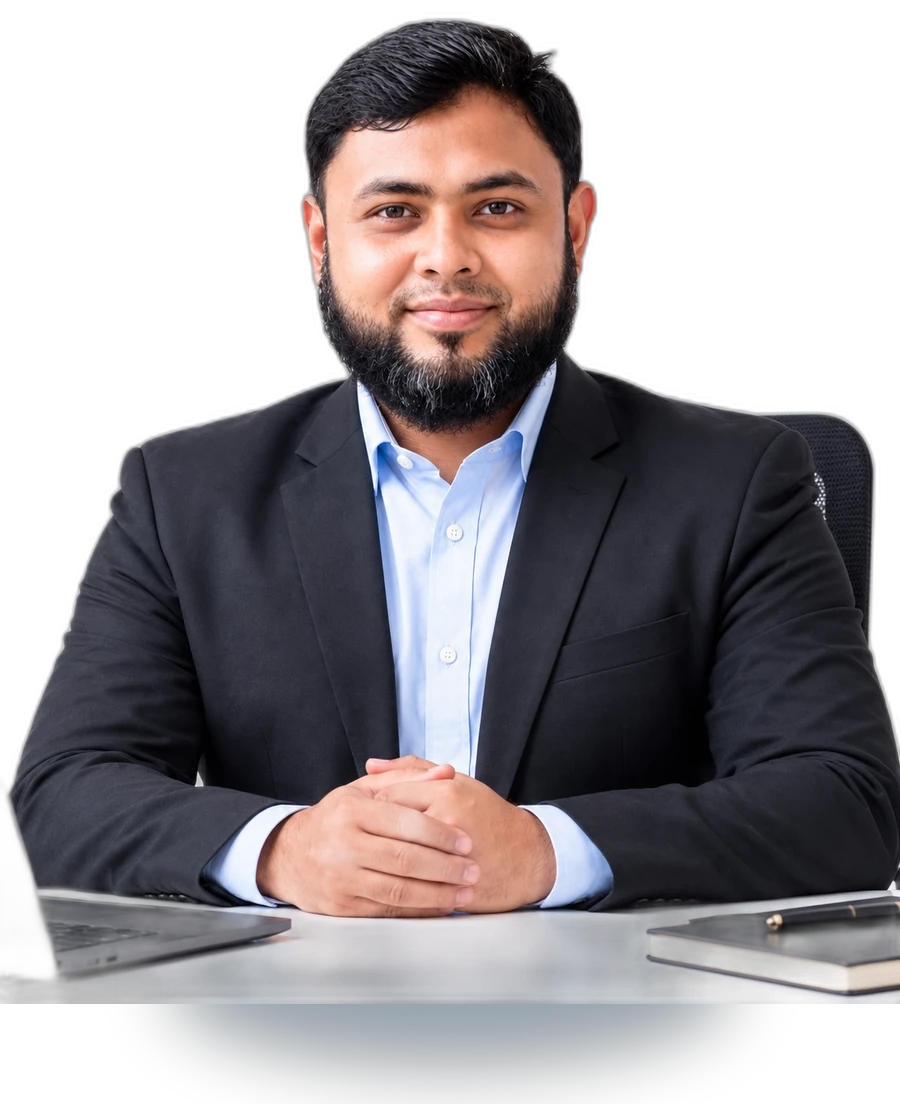
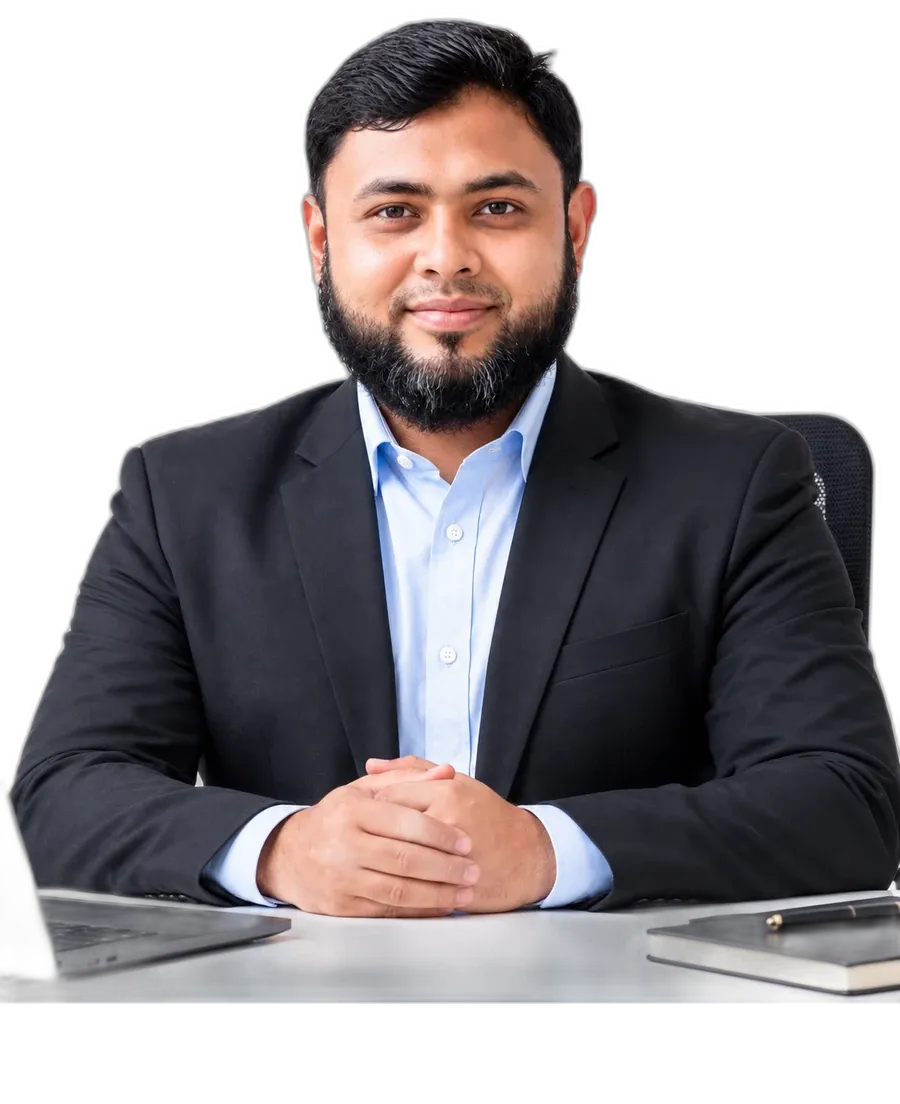
Add files via upload

Changed region(s): [[0.1867, 0.8931, 0.8089, 1.0]]

diff --git a/components/Navbar.tsx b/components/Navbar.tsx
@@ -18,10 +18,10 @@ export default function Navbar() {
   const [isDark, setIsDark] = useState(false);
   const [lang, setLang] = useState<"bn" | "en">("bn");
 
-  // স্ক্রল ডিটেকশন
+  // স্ক্রল ডিটেকশন — স্ক্রল করলে হালকা বটম-বর্ডার/ব্লার যোগ হবে, নাহলে বার সম্পূর্ণ ফ্ল্যাট/স্বচ্ছ
   useEffect(() => {
     const handleScroll = () => {
-      setScrolled(window.scrollY > 15);
+      setScrolled(window.scrollY > 8);
     };
     window.addEventListener("scroll", handleScroll);
     return () => window.removeEventListener("scroll", handleScroll);
@@ -38,11 +38,7 @@ export default function Navbar() {
   // ডার্ক মোড টগল হ্যান্ডলার
   const toggleTheme = () => {
     setIsDark(!isDark);
-    if (!isDark) {
-      document.documentElement.classList.add("dark");
-    } else {
-      document.documentElement.classList.remove("dark");
-    }
+    document.documentElement.classList.toggle("dark", !isDark);
   };
 
   // ভাষা পরিবর্তন হ্যান্ডলার (ডেমো টগল)
@@ -51,31 +47,26 @@ export default function Navbar() {
   };
 
   return (
-    <header className="sticky top-0 z-50 w-full px-3 pt-2 sm:px-6 sm:pt-3">
-      <nav
-        className={`mx-auto flex max-w-6xl items-center justify-between rounded-2xl border px-3.5 py-2.5 transition-all duration-300 sm:px-5 sm:py-3 ${
-          scrolled
-            ? "border-sky-200/80 bg-white/90 shadow-sm backdrop-blur-md"
-            : "border-sky-100/60 bg-white/70 shadow-sm backdrop-blur-sm"
-        }`}
-      >
-        {/* ব্র্যান্ড লোগো ও নাম — ক্লিক করলে স্মুথ স্ক্রলে উপরে যাবে, URL-এ # যোগ হবে না */}
-        <ScrollLink targetId="top" className="flex items-center gap-2.5">
-          <div className="flex h-9 w-9 items-center justify-center rounded-xl bg-gradient-to-tr from-sky-700 to-sky-500 font-bold text-white shadow-sm">
-            AU
-          </div>
-          <div className="flex flex-col">
-            <span className="text-sm font-bold leading-tight text-sky-950 sm:text-base">
-              Ahsan&apos;s Learning Academy
-            </span>
-            <span className="text-[10px] font-medium text-sky-700 leading-none">
-              HSC English &amp; ICT
-            </span>
-          </div>
+    <header
+      className={`sticky top-0 z-50 w-full transition-colors duration-300 ${
+        scrolled
+          ? "border-b border-sky-100 bg-white/95 backdrop-blur-md"
+          : "border-b border-transparent bg-transparent"
+      }`}
+    >
+      <div className="mx-auto flex max-w-6xl items-center justify-between px-4 py-3.5 sm:px-6">
+        {/* বাম পাশে: শুধু একাডেমির নাম ও তার নিচে স্লোগান — কোনো লোগো নেই */}
+        <ScrollLink targetId="top" className="flex flex-col leading-tight">
+          <span className="text-sm font-bold text-sky-950 sm:text-base">
+            Ahsan&apos;s Learning Academy
+          </span>
+          <span className="text-[10px] font-semibold tracking-wide text-sky-700 sm:text-[11px]">
+            Better Learning, Brighter Future
+          </span>
         </ScrollLink>
 
-        {/* ডেক্সটপ মেনু লিংক — স্মুথ স্ক্রল, URL-এ # যোগ হবে না */}
-        <ul className="hidden items-center gap-5 text-sm font-medium text-ink-800 lg:flex">
+        {/* মাঝখানে: ডেক্সটপ মেনু লিংক */}
+        <ul className="hidden items-center gap-6 text-sm font-medium text-ink-800 lg:flex">
           {NAV_LINKS.map((link) => (
             <li key={link.id}>
               <ScrollLink
@@ -88,16 +79,17 @@ export default function Navbar() {
           ))}
         </ul>
 
-        {/* ডানদিকের কন্ট্রোল: থিম, ভাষা ও ভর্তি বাটন */}
-        <div className="flex items-center gap-2">
-          {/* ভাষা পরিবর্তন বাটন */}
+        {/* ডানদিকে: ভাষা/থিম আইকন (ব্যাকগ্রাউন্ড ছাড়া) + একটিমাত্র সলিড ভর্তি বাটন */}
+        <div className="flex items-center gap-3.5 sm:gap-4">
+          {/* ভাষা পরিবর্তন — শুধু আইকন, কোনো বক্স/ব্যাকগ্রাউন্ড নেই */}
           <button
             onClick={toggleLanguage}
+            aria-label="ভাষা পরিবর্তন করুন"
             title="ভাষা পরিবর্তন / Switch Language"
-            className="flex h-8 items-center gap-1 rounded-lg border border-sky-100 bg-sky-50/80 px-2 text-xs font-semibold text-sky-900 transition-colors hover:bg-sky-100"
+            className="flex items-center gap-1 text-sky-700 transition-colors hover:text-sky-900"
           >
             <svg
-              className="h-3.5 w-3.5 text-sky-700"
+              className="h-[18px] w-[18px]"
               fill="none"
               viewBox="0 0 24 24"
               stroke="currentColor"
@@ -105,99 +97,104 @@ export default function Navbar() {
               <path
                 strokeLinecap="round"
                 strokeLinejoin="round"
-                strokeWidth={2}
+                strokeWidth={1.75}
                 d="M3 5h12M9 3v2m1.048 9.5A18.022 18.022 0 016.412 9m6.088 9h7M11 21l5-10 5 10M12.751 5C11.783 10.77 8.07 15.61 3 18.129"
               />
             </svg>
-            <span>{lang === "bn" ? "বাং" : "EN"}</span>
+            <span className="hidden text-xs font-semibold sm:inline">
+              {lang === "bn" ? "বাং" : "EN"}
+            </span>
           </button>
 
-          {/* লাইট / ডার্ক মোড টগল বাটন */}
+          {/* লাইট / ডার্ক মোড টগল — শুধু আইকন, কোনো বক্স/ব্যাকগ্রাউন্ড নেই */}
           <button
             onClick={toggleTheme}
-            aria-label="Toggle theme"
-            className="flex h-8 w-8 items-center justify-center rounded-lg border border-sky-100 bg-sky-50/80 text-sky-800 transition-colors hover:bg-sky-100"
+            aria-label="থিম পরিবর্তন করুন"
+            className="text-sky-700 transition-colors hover:text-sky-900"
           >
             {isDark ? (
-              <svg className="h-4 w-4" fill="none" viewBox="0 0 24 24" stroke="currentColor">
+              <svg className="h-[18px] w-[18px]" fill="none" viewBox="0 0 24 24" stroke="currentColor">
                 <path
                   strokeLinecap="round"
                   strokeLinejoin="round"
-                  strokeWidth={2}
+                  strokeWidth={1.75}
                   d="M12 3v1m0 16v1m9-9h-1M4 12H3m15.364 6.364l-.707-.707M6.343 6.343l-.707-.707m12.728 0l-.707.707M6.343 17.657l-.707.707M16 12a4 4 0 11-8 0 4 4 0 018 0z"
                 />
               </svg>
             ) : (
-              <svg className="h-4 w-4" fill="none" viewBox="0 0 24 24" stroke="currentColor">
+              <svg className="h-[18px] w-[18px]" fill="none" viewBox="0 0 24 24" stroke="currentColor">
                 <path
                   strokeLinecap="round"
                   strokeLinejoin="round"
-                  strokeWidth={2}
+                  strokeWidth={1.75}
                   d="M20.354 15.354A9 9 0 018.646 3.646 9.003 9.003 0 0012 21a9.003 9.003 0 008.354-5.646z"
                 />
               </svg>
             )}
           </button>
 
-          {/* ভর্তি ফরম বাটন (ডেক্সটপ) — ক্রিস্টাল লিকুইড গ্লাস + স্প্রিং ট্যাপ */}
+          {/* ভর্তি ফরম বাটন (ডেক্সটপ/ট্যাব) — একটিমাত্র সলিড কালার বাটন */}
           <ScrollLink
             targetId="admission"
-            className="crystal-btn hidden rounded-xl px-4 py-2 text-xs font-bold sm:inline-flex sm:items-center sm:justify-center"
+            className="crystal-btn-solid hidden rounded-xl px-4 py-2 text-xs font-bold sm:inline-flex sm:items-center sm:justify-center"
           >
             ভর্তি হও
           </ScrollLink>
 
-          {/* মোবাইল আধুনিক স্টাইলিশ ৩-ডট/মেনু বাটন */}
+          {/* মোবাইল হ্যামবার্গার মেনু বাটন — কোনো বক্স/বর্ডার নেই */}
           <button
             aria-label={open ? "মেনু বন্ধ করুন" : "মেনু খুলুন"}
             aria-expanded={open}
             onClick={() => setOpen((v) => !v)}
-            className="flex h-8 w-8 items-center justify-center rounded-lg border border-sky-200/80 bg-white text-sky-950 shadow-sm transition-colors hover:bg-sky-50 lg:hidden"
+            className="flex h-8 w-8 items-center justify-center text-sky-950 lg:hidden"
           >
-            <div className="flex flex-col items-center justify-center gap-1">
-              <span
-                className={`block h-1 w-1 rounded-full bg-sky-950 transition-all duration-300 ${
-                  open ? "scale-125 bg-red-600" : ""
-                }`}
-              />
-              <span
-                className={`block h-1 w-1 rounded-full bg-sky-950 transition-all duration-300 ${
-                  open ? "scale-125 bg-red-600" : ""
-                }`}
-              />
-              <span
-                className={`block h-1 w-1 rounded-full bg-sky-950 transition-all duration-300 ${
-                  open ? "scale-125 bg-red-600" : ""
-                }`}
-              />
-            </div>
+            <svg className="h-5 w-5" fill="none" viewBox="0 0 24 24" stroke="currentColor">
+              {open ? (
+                <path
+                  strokeLinecap="round"
+                  strokeLinejoin="round"
+                  strokeWidth={1.75}
+                  d="M6 18L18 6M6 6l12 12"
+                />
+              ) : (
+                <path
+                  strokeLinecap="round"
+                  strokeLinejoin="round"
+                  strokeWidth={1.75}
+                  d="M4 6h16M4 12h16M4 18h16"
+                />
+              )}
+            </svg>
           </button>
         </div>
-      </nav>
+      </div>
 
-      {/* মোবাইল ড্রয়ার মেনু */}
+      {/* মোবাইল ড্রপডাউন মেনু */}
       <div
-        className={`mt-2 overflow-hidden rounded-2xl border border-sky-100 bg-white/95 shadow-md backdrop-blur-md transition-all duration-300 lg:hidden ${
-          open ? "max-h-96 opacity-100 p-4" : "pointer-events-none max-h-0 opacity-0 p-0"
+        className={`overflow-hidden bg-white/95 backdrop-blur-md transition-all duration-300 lg:hidden ${
+          open
+            ? "max-h-96 border-b border-sky-100 opacity-100"
+            : "pointer-events-none max-h-0 opacity-0"
         }`}
       >
-        <div className="flex flex-col gap-2">
+        <div className="mx-auto flex max-w-6xl flex-col gap-1 px-4 py-3 sm:px-6">
           {NAV_LINKS.map((link) => (
             <ScrollLink
               key={link.id}
               targetId={link.id}
               onNavigate={() => setOpen(false)}
-              className="rounded-xl px-3 py-2 text-sm font-medium text-ink-800 transition-colors hover:bg-sky-50 hover:text-sky-700"
+              className="rounded-lg px-2 py-2.5 text-sm font-medium text-ink-800 transition-colors hover:bg-sky-50 hover:text-sky-700"
             >
               {link.label}
             </ScrollLink>
           ))}
+          {/* শুধু ছোট মোবাইলে (যেখানে টপ বারে বাটনটা দেখা যায় না) ড্রপডাউনেও বাটন দেখানো হচ্ছে */}
           <ScrollLink
             targetId="admission"
             onNavigate={() => setOpen(false)}
-            className="crystal-btn mt-2 flex items-center justify-center rounded-xl px-4 py-2.5 text-center text-sm font-bold"
+            className="crystal-btn-solid mt-1 flex items-center justify-center rounded-xl px-4 py-2.5 text-center text-sm font-bold sm:hidden"
           >
-            ভর্তি ফর্ম পূরণ করো
+            ভর্তি হও
           </ScrollLink>
         </div>
       </div>

diff --git a/components/Hero.tsx b/components/Hero.tsx
@@ -48,7 +48,7 @@ const headlineWipeVariants = {
 export default function Hero() {
   return (
     <section
-      className="relative -mt-[58px] overflow-hidden px-4 pt-[74px] pb-6 sm:-mt-[68px] sm:pt-[90px] md:pb-10"
+      className="relative overflow-hidden px-4 pt-10 pb-6 sm:pt-14 md:pb-10"
       style={{
         background:
           "radial-gradient(ellipse 65% 50% at 5% 30%, rgba(56, 189, 248, 0.35) 0%, transparent 65%), radial-gradient(ellipse 60% 50% at 95% 45%, rgba(14, 165, 233, 0.30) 0%, transparent 65%), linear-gradient(180deg, #e0f2fe 0%, #f0f7fe 55%, #ffffff 100%)",
@@ -64,13 +64,6 @@ export default function Hero() {
           animate="show"
           className="order-2 text-center md:order-1 md:text-left"
         >
-          <motion.p
-            variants={lineVariants}
-            className="font-display text-xs sm:text-sm font-bold tracking-wide text-sky-700"
-          >
-            Better Learning, Brighter Future
-          </motion.p>
-
           <motion.h1
             variants={headlineWipeVariants}
             className="mt-1 text-3xl font-bold leading-tight text-sky-950 sm:text-5xl lg:text-6xl"
@@ -81,7 +74,7 @@ export default function Hero() {
 
           <motion.div variants={lineVariants} className="mt-2.5 space-y-1">
             <p className="text-sm sm:text-base font-bold text-sky-900">
-              Founder &amp; CEO — Ahsan&apos;s Learning Academy
+              প্রতিষ্ঠাতা ও মেন্টর — Ahsan&apos;s Learning Academy
             </p>
             <p className="text-xs sm:text-sm font-semibold text-sky-800">
               প্রভাষক, চৌদ্দগ্রাম সরকারি কলেজ · ৪০তম বিসিএস (সাধারণ শিক্ষা ক্যাডার)
@@ -159,7 +152,7 @@ export default function Hero() {
           <div className="relative w-full max-w-[280px] sm:max-w-[340px] md:max-w-[400px]">
             <Image
               src="/images/ahsan-hero.webp"
-              alt="Md. Ahsan Ullah — Founder & CEO, Ahsan's Learning Academy"
+              alt="Md. Ahsan Ullah — প্রতিষ্ঠাতা ও মেন্টর, Ahsan's Learning Academy"
               width={900}
               height={1350}
               priority

diff --git a/app/globals.css b/app/globals.css
@@ -169,56 +169,17 @@ select:focus-visible {
    নিয়ে sky-blue প্যালেটে বসানো) — প্রাইমারি CTA বাটনগুলোতে ব্যবহার করার জন্য
    ══════════════════════════════════════════════════════════════════════ */
 .crystal-btn {
-  --cb-pos-x: 40%;
-  --cb-pos-y: 140%;
-  --cb-spread-x: 130%;
-  --cb-spread-y: 170%;
-  --cb-color-1: #f0f8ff;
-  --cb-color-2: #e0f2fe;
-  --cb-color-3: #c3defc;
-  --cb-color-4: #44a7fc;
-  --cb-color-5: #c3defc;
-  --cb-stop-1: 37.35%;
-  --cb-stop-2: 61.36%;
-  --cb-stop-3: 78.42%;
-  --cb-stop-4: 93.52%;
-  --cb-stop-5: 100%;
+  background: #ffffff;
   color: #0284c7;
-  background: radial-gradient(
-    var(--cb-spread-x) var(--cb-spread-y) at var(--cb-pos-x) var(--cb-pos-y),
-    var(--cb-color-1) var(--cb-stop-1),
-    var(--cb-color-2) var(--cb-stop-2),
-    var(--cb-color-3) var(--cb-stop-3),
-    var(--cb-color-4) var(--cb-stop-4),
-    var(--cb-color-5) var(--cb-stop-5)
-  );
-  border: 1px solid rgba(255, 255, 255, 0.9);
-  box-shadow:
-    inset 0 1.5px 2px rgba(255, 255, 255, 1),
-    0 3px 10px rgba(0, 88, 199, 0.12);
-  transition:
-    --cb-pos-x 0.75s, --cb-pos-y 0.75s,
-    --cb-spread-x 0.75s, --cb-spread-y 0.75s,
-    color 0.3s ease;
+  border: 1.5px solid #bae6fd;
+  transition: border-color 0.2s ease, background-color 0.2s ease;
 }
 .crystal-btn:hover,
 .crystal-btn:focus-visible,
 .crystal-btn:active {
-  --cb-pos-x: 0%;
-  --cb-pos-y: 120%;
-  --cb-spread-x: 110%;
-  --cb-spread-y: 110%;
-  --cb-color-1: #f0f8ff;
-  --cb-color-2: #c3defc;
-  --cb-color-3: #7dd3fc;
-  --cb-color-4: #c3defc;
-  --cb-color-5: #e0f2fe;
-  --cb-stop-1: 0%;
-  --cb-stop-2: 10%;
-  --cb-stop-3: 35.44%;
-  --cb-stop-4: 71.34%;
-  --cb-stop-5: 150%;
+  background: #ffffff;
   color: #0284c7;
+  border-color: #7dd3fc;
   outline: none;
 }
 @media (prefers-reduced-motion: reduce) {
